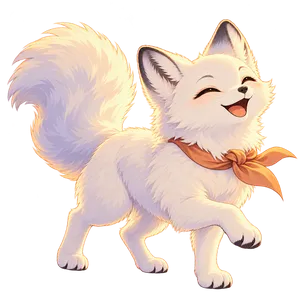
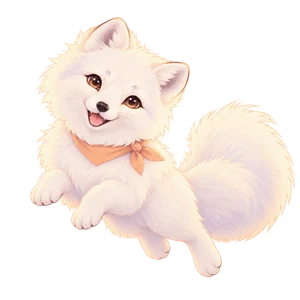
nw9: 換上新版八種心情與九張呆維天氣圖，舊心情自動對應
Claude-Session: https://claude.ai/code/session_01L8cC684gBamZh9mEE5ViaQ

diff --git a/app.js b/app.js
@@ -2075,19 +2075,21 @@ const WMO = {
 };
 function wmoInfo(code){ return WMO[code] || ['🌡','—']; }
 /* 呆維天氣圖：依天氣代碼與風速切換（秋天的挪威多半是雨，北部偶爾初雪） */
-const WX_IMG={clear:['images/mood-happy.webp','晴'],cloudy:['images/mood-relaxed.webp','多雲'],overcast:['images/fox-rest.webp','陰天'],light:['images/mood-cold.webp','小雪'],heavy:['images/mood-cold.webp','大雪'],blowing:['images/mood-cold.webp','風雪'],sleet:['images/mood-disappointed.webp','下雨'],windy:['images/mood-tired.webp','強風'],icy:['images/mood-cold.webp','路面結冰']};
+const WX_IMG={sunny:['images/wx-sunny.webp','晴天'],cloudy:['images/wx-partly-cloudy.webp','多雲'],overcast:['images/wx-overcast.webp','陰天'],fog:['images/wx-fog.webp','霧'],rain:['images/wx-rain.webp','雨天'],windrain:['images/wx-wind-rain.webp','風雨'],windy:['images/wx-wind.webp','強風'],light:['images/wx-snow.webp','小雪'],heavy:['images/wx-snow.webp','大雪'],blowing:['images/wx-snow.webp','風雪'],sleet:['images/wx-sleet.webp','雨夾雪／凍雨'],icy:['images/wx-sleet.webp','路面結冰']};
 function wxKind(code,wind){
   code=Number(code);wind=Number(wind)||0;
   const snow=[71,73,75,77,85,86].includes(code);
   if(snow&&wind>=30)return 'blowing';
   if([75,86].includes(code))return 'heavy';
   if(snow)return 'light';
-  if(code>=95)return 'sleet';
-  if((code>=51&&code<=67)||(code>=80&&code<=82))return 'sleet';
+  if([56,57,66,67].includes(code))return 'sleet';
+  const rain=code>=95||(code>=51&&code<=65)||(code>=80&&code<=82);
+  if(rain)return (wind>=30||code>=95)?'windrain':'rain';
   if(wind>=40)return 'windy';
-  if(code===3||code===45||code===48)return 'overcast';
+  if(code===45||code===48)return 'fog';
+  if(code===3)return 'overcast';
   if(code===2)return 'cloudy';
-  return 'clear';
+  return 'sunny';
 }
 function wxImgHTML(code,wind,cls='wx-img'){const [f,l]=WX_IMG[wxKind(code,wind)];return `<img class="${cls}" src="${f}" alt="${l}" title="${l}" width="64" height="64" loading="lazy" decoding="async">`;}
 function feelsText(cw){return cw&&cw.apparent_temperature!=null?`體感 ${Math.round(cw.apparent_temperature)}°`:'';}
@@ -2870,7 +2872,7 @@ window.addEventListener('offline', updateNetStatus);
 /* ============ Service Worker（離線快取整個網頁） ============ */
 if (navigator.serviceWorker) {
   window.addEventListener('load', () => {
-    navigator.serviceWorker.register('./sw.js?v=69').then(()=>navigator.serviceWorker.ready).catch(()=>{});
+    navigator.serviceWorker.register('./sw.js?v=70').then(()=>navigator.serviceWorker.ready).catch(()=>{});
   });
 }
 document.addEventListener('error',e=>{if(e.target?.tagName==='IMG')imageErrorFallback(e.target);},true);
@@ -3372,7 +3374,7 @@ const TENKI_LINKS={
 /* =====================================================================
    v48：收藏／預約狀態／提醒、自駕即時路況、版本與同步比對
    ===================================================================== */
-const APP_VERSION='nw8-2026-10-10';
+const APP_VERSION='nw9-2026-10-10';
 
 /* ---------- 收藏 ★／預約狀態／提醒 ---------- */
 let marksStore=(()=>{try{const v=JSON.parse(localStorage.getItem('norway_marks'));return v&&typeof v==='object'&&!Array.isArray(v)?v:{};}catch(e){return {};}})();
@@ -4654,7 +4656,7 @@ function toggleSpotDetails(key){
 /* =====================================================================
    v56：訂位連結、營業時間、照片縮圖＋大圖檢視、交通新增／刪除／圖片、修正導航視窗、新插圖
    ===================================================================== */
-const ART={lying:'images/fox-rest.webp',suitcase:'images/fox-point.webp',photo:'images/fox-upload.webp',heart:'images/mood-moved.webp',rain:'images/mood-disappointed.webp',search:'images/fox-fact.webp',car:'images/fox-complete.webp',sleep:'images/fox-rest.webp'};
+const ART={lying:'images/fox-rest.webp',suitcase:'images/fox-point.webp',photo:'images/fox-upload.webp',heart:'images/mood-moved.webp',rain:'images/wx-rain.webp',search:'images/fox-fact.webp',car:'images/fox-complete.webp',sleep:'images/fox-rest.webp'};
 function emptyArtHTML(text,art){return `<div class="empty-art"><img src="${art||ART.lying}" alt="" loading="lazy"><p>${text}</p></div>`;}
 
 /* ---------- 網址整理 ---------- */
@@ -5154,12 +5156,12 @@ const REVIEW_MOODS=[
   ['surprised','驚喜','撿到意外的風景'],
   ['relaxed','放鬆','慢慢走也很好'],
   ['moved','感動','想把這一刻留下'],
-  ['tired','疲累','電量剩一格'],
-  ['cold','冷冷的','風好大，但很值得'],
-  ['disappointed','小失落','天氣不給力，下次再來'],
-  ['farewell','捨不得','還不想說再見']];
-/* hk26：拿掉「低落」「不順心」，改成「有點可惜」；更早期的心情代碼自動對應 */
-const OLD_MOOD_MAP={great:'happy',good:'relaxed',ok:'relaxed',sad:'disappointed'};
+  ['satisfied','滿足','吃飽喝足，剛剛好'],
+  ['excited','期待','明天也好想快點出發'],
+  ['cozy','療癒','被風景摸摸頭'],
+  ['treasured','珍藏','收進心裡的那一頁']];
+/* nw9：心情換成八種正向心情；舊的心情代碼自動對應到最接近的新心情 */
+const OLD_MOOD_MAP={great:'happy',good:'relaxed',ok:'relaxed',sad:'relaxed',tired:'cozy',cold:'satisfied',disappointed:'relaxed',farewell:'treasured'};
 function moodInfo(m){m=OLD_MOOD_MAP[m]||m;const x=REVIEW_MOODS.find(z=>z[0]===m);return x?{key:x[0],label:x[1],sub:x[2],img:`images/mood-${x[0]}.webp`}:null;}
 /* v95：心情可複選，存成 "excited,touched"（舊的單一值也相容） */
 function moodList(m){const seen=new Set();return String(m||'').split(',').map(x=>OLD_MOOD_MAP[x.trim()]||x.trim()).filter(x=>x&&!seen.has(x)&&seen.add(x)&&REVIEW_MOODS.some(z=>z[0]===x));}

diff --git a/sw.js b/sw.js
@@ -1,11 +1,11 @@
 /* 狐光漫遊（挪威）：App Shell、圖片與已瀏覽內容離線快取 */
-const CACHE_VERSION='norway-trip-nw8';
+const CACHE_VERSION='norway-trip-nw9';
 const SHELL_CACHE=`norway-shell-${CACHE_VERSION}`;
 const RUNTIME_CACHE=`norway-runtime-${CACHE_VERSION}`;
 /* 圖片快取獨立於版本：更新網站不會清掉已下載的圖片，也不必重新下載 */
 const IMAGE_CACHE='norway-images-persist';
 const LOCAL_MEDIA_CACHE='norway-local-media';
-const SHELL=["./","./index.html","./app.js","./style.css","./splash.css","./splash.js","./manifest.webmanifest","./config.js","./fonts/title-chenyu.woff2","./daiwei/daiwei-widget.css","./daiwei/daiwei-widget.js","./daiwei/daiwei-content.js","./images/apple-touch-icon.png","./images/day01.webp","./images/day02.webp","./images/day03.webp","./images/day04.webp","./images/day05.webp","./images/day06.webp","./images/day07.webp","./images/day08.webp","./images/day09.webp","./images/day10.webp","./images/day11.webp","./images/day12.webp","./images/day13.webp","./images/day14.webp","./images/day15.webp","./images/day16.webp","./images/day17.webp","./images/day18.webp","./images/day19.webp","./images/day20.webp","./images/favicon.png","./images/fox-complete.webp","./images/fox-fact.webp","./images/fox-point.webp","./images/fox-rest.webp","./images/fox-upload.webp","./images/fox-welcome.webp","./images/header.webp","./images/icon-192.png","./images/icon-512.png","./images/icon-maskable-512.png","./images/logo.webp","./images/map.webp","./images/mood-cold.webp","./images/mood-disappointed.webp","./images/mood-farewell.webp","./images/mood-happy.webp","./images/mood-moved.webp","./images/mood-relaxed.webp","./images/mood-surprised.webp","./images/mood-tired.webp","./images/nav-food.webp","./images/nav-guide.webp","./images/nav-itinerary.webp","./images/nav-lodging.webp","./images/nav-route.webp","./images/nav-shopping.webp","./images/nav-weather.webp","./images/splash-coffee.webp","./images/splash-travel.webp"];
+const SHELL=["./","./index.html","./app.js","./style.css","./splash.css","./splash.js","./manifest.webmanifest","./config.js","./fonts/title-chenyu.woff2","./daiwei/daiwei-widget.css","./daiwei/daiwei-widget.js","./daiwei/daiwei-content.js","./images/apple-touch-icon.png","./images/day01.webp","./images/day02.webp","./images/day03.webp","./images/day04.webp","./images/day05.webp","./images/day06.webp","./images/day07.webp","./images/day08.webp","./images/day09.webp","./images/day10.webp","./images/day11.webp","./images/day12.webp","./images/day13.webp","./images/day14.webp","./images/day15.webp","./images/day16.webp","./images/day17.webp","./images/day18.webp","./images/day19.webp","./images/day20.webp","./images/favicon.png","./images/fox-complete.webp","./images/fox-fact.webp","./images/fox-point.webp","./images/fox-rest.webp","./images/fox-upload.webp","./images/fox-welcome.webp","./images/header.webp","./images/icon-192.png","./images/icon-512.png","./images/icon-maskable-512.png","./images/logo.webp","./images/map.webp","./images/mood-happy.webp","./images/mood-surprised.webp","./images/mood-relaxed.webp","./images/mood-moved.webp","./images/mood-satisfied.webp","./images/mood-excited.webp","./images/mood-cozy.webp","./images/mood-treasured.webp","./images/wx-sunny.webp","./images/wx-partly-cloudy.webp","./images/wx-overcast.webp","./images/wx-rain.webp","./images/wx-wind-rain.webp","./images/wx-wind.webp","./images/wx-fog.webp","./images/wx-snow.webp","./images/wx-sleet.webp","./images/nav-food.webp","./images/nav-guide.webp","./images/nav-itinerary.webp","./images/nav-lodging.webp","./images/nav-route.webp","./images/nav-shopping.webp","./images/nav-weather.webp","./images/splash-coffee.webp","./images/splash-travel.webp"];
 
 self.addEventListener('install',event=>{
   self.skipWaiting();

diff --git a/index.html b/index.html
@@ -33,9 +33,9 @@ window.addEventListener('load',function(){setTimeout(function(){if(window.__appR
 <link rel="preconnect" href="https://fonts.googleapis.com">
 <link rel="preconnect" href="https://fonts.gstatic.com" crossorigin>
 <link href="https://fonts.googleapis.com/css2?family=LXGW+WenKai+TC:wght@400;700&family=Noto+Serif+TC:wght@700;900&family=Noto+Sans+TC:wght@400;500;700&family=Huninn&family=Iansui&family=Cactus+Classical+Serif&family=Chiron+Hei+HK:wght@400;700&family=Caveat:wght@500;700&family=Cormorant+Garamond:ital,wght@1,600&display=swap" rel="stylesheet">
-<link rel="stylesheet" href="style.css?v=nw8">
-<link rel="stylesheet" href="splash.css?v=nw8">
-<link rel="stylesheet" href="daiwei/daiwei-widget.css?v=nw8">
+<link rel="stylesheet" href="style.css?v=nw9">
+<link rel="stylesheet" href="splash.css?v=nw9">
+<link rel="stylesheet" href="daiwei/daiwei-widget.css?v=nw9">
 </head>
 <body class="family-locked">
 <div id="norwaySplash" class="splash" hidden aria-label="狐光漫遊載入中">
@@ -51,7 +51,7 @@ window.addEventListener('load',function(){setTimeout(function(){if(window.__appR
     <div class="splash__title"><strong>狐光漫遊</strong><span>在峽灣慢行，等一場北方的光</span></div>
   </div>
 </div>
-<script src="splash.js?v=nw8"></script>
+<script src="splash.js?v=nw9"></script>
 
 <div id="familyGate" class="family-gate" aria-hidden="false">
   <div class="family-gate-card">
@@ -257,7 +257,7 @@ window.addEventListener('load',function(){setTimeout(function(){if(window.__appR
       <div class="source-note" id="liveWeatherTime">即時資料尚未更新</div>
     </div>
     <details class="section-card snow-section" id="snowSection" style="margin-bottom:14px;" ontoggle="try{localStorage.setItem('norway_snow_open',this.open?'1':'0')}catch(e){}">
-      <summary class="snow-sum"><img class="h-ic" src="images/mood-cold.webp" alt="" width="40" height="40"><span><b>降雪、強風與結冰提醒</b><small id="snowSumLine">北部可能結冰；接下來會不會下雪、路面好不好開</small></span><i aria-hidden="true">▾</i></summary>
+      <summary class="snow-sum"><img class="h-ic" src="images/wx-snow.webp" alt="" width="40" height="40"><span><b>降雪、強風與結冰提醒</b><small id="snowSumLine">北部可能結冰；接下來會不會下雪、路面好不好開</small></span><i aria-hidden="true">▾</i></summary>
       <div class="sub">各地現在的積雪、過去 24 小時新雪、接下來 12 小時會不會下雪，以及路面狀況。出發前 16 天內，行程日的降雪與強風預報也會顯示在每天的行程頁。</div>
       <div id="snowAlertBox"></div>
       <div id="snowNowList" class="snow-now-list"></div>
@@ -356,10 +356,10 @@ window.addEventListener('load',function(){setTimeout(function(){if(window.__appR
 
 <input type="file" id="restoreFile" accept="application/json,.json" style="display:none" onchange="restoreBackupFile(event)">
 
-<script src="config.js?v=nw8"></script>
-<script src="daiwei/daiwei-content.js?v=nw8"></script>
-<script src="daiwei/daiwei-widget.js?v=nw8"></script>
-<script src="app.js?v=nw8"></script>
+<script src="config.js?v=nw9"></script>
+<script src="daiwei/daiwei-content.js?v=nw9"></script>
+<script src="daiwei/daiwei-widget.js?v=nw9"></script>
+<script src="app.js?v=nw9"></script>
 
 </body>
 </html>

diff --git a/README.md b/README.md
@@ -4,6 +4,12 @@
 
 由「雪羽慢旅（北海道版 hk26）」移植而來，功能沿用：家人同步、離線 PWA、開場動畫、每日交通、住宿卡、收藏與預約、出發前待辦、每日回顧、MaMa 筆記、角落小驚喜、備份與快照。內容換成挪威 20 天行程，風格換成靛藍夜色＋暖杏橘＋極光青綠。
 
+## nw9（新版心情與天氣圖）
+
+1. 每日回顧的心情換成柔軟微 Q 呆維的八種正向心情：開心、驚喜、放鬆、感動、滿足、期待、療癒、珍藏（可複選）。
+2. 舊回顧選過的心情會自動對應：疲累→療癒、冷冷的→滿足、小失落→放鬆、捨不得→珍藏，不會消失。
+3. 天氣圖示換成 9 張呆維天氣圖：晴天、多雲、陰天、霧、雨天、風雨（雨＋強風或雷雨）、強風、下雪、雨夾雪／凍雨。以前霧和陰天共用、下雨用「失落」心情圖的狀況一起修正。
+
 ## nw8（整理版面與配色）
 
 1. 刪掉天氣頁的「天氣、極光與我的地圖」、購物清單的「藥局保養」。之前放在藥局保養的項目會自動歸到「超市」，不會消失。
